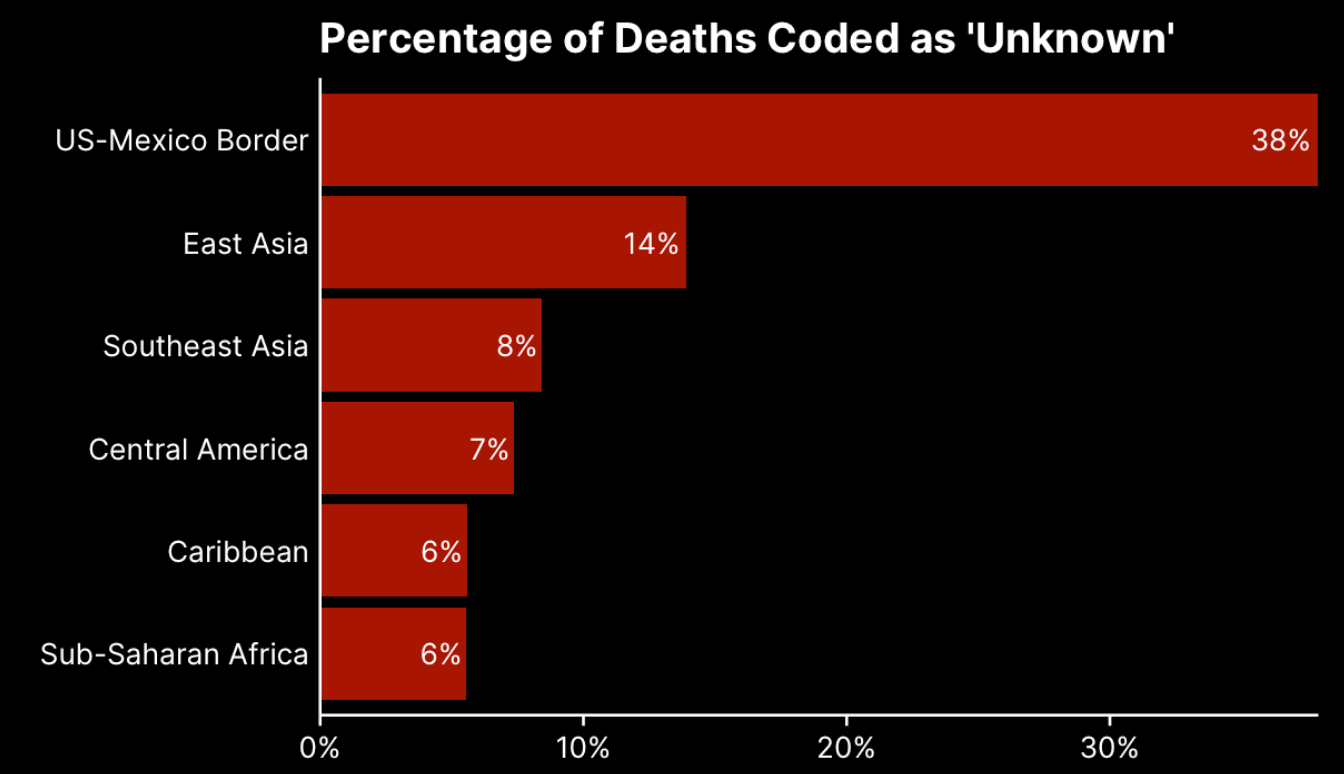
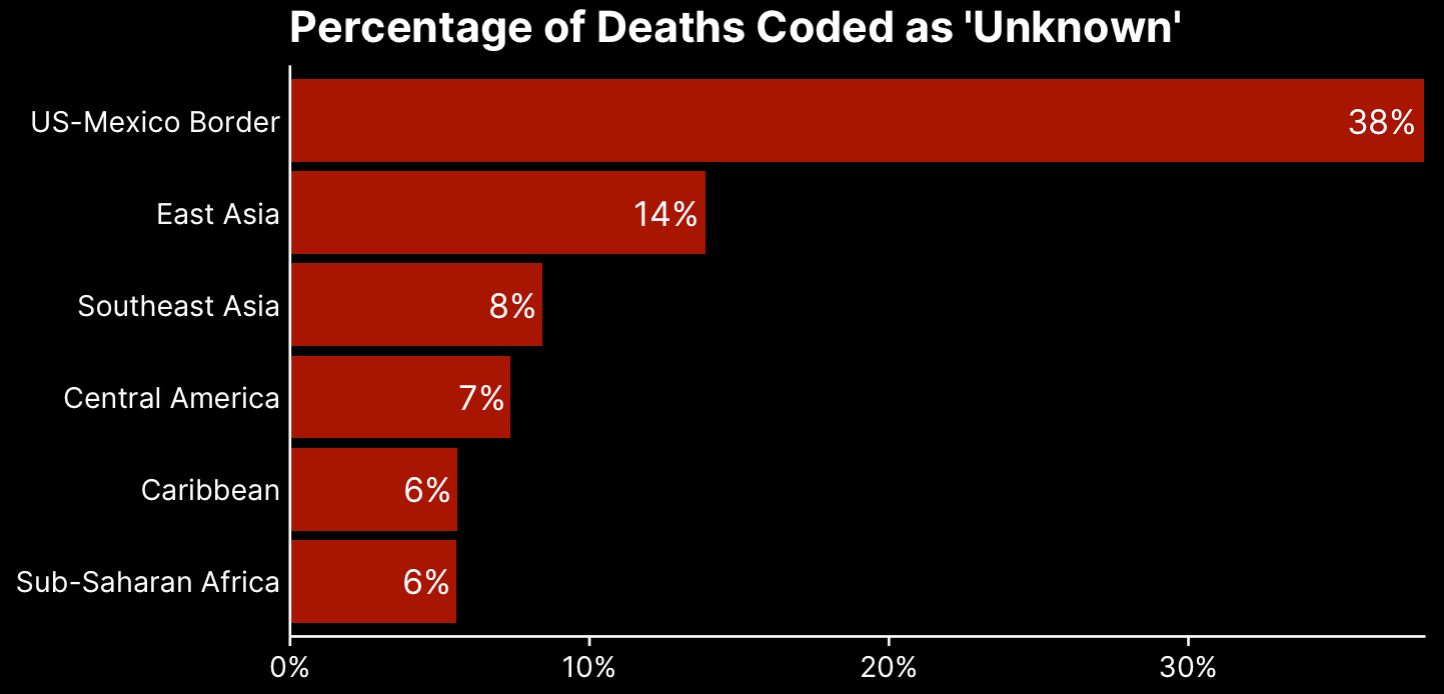
meditteranean reorg

Changed region(s): [[0.0, 0.0, 1.0, 0.9986]]

diff --git a/config.js b/config.js
@@ -198,7 +198,7 @@ var config = {
             id: 'mediterranean',
             title: 'Some paths remain more dangerous than others',
             // image: './path/to/image/source.png',
-            description: 'After five years of this crisis and tepid responses from national governments, some paths remain more dangerous than others. The most dangerous place for migrants is the Mediterranean Sea, where Alan Kurdi drowned.<br><br>Of the 34,688 people who have died or gone missing since 2014, over 55% of them were lost in the Mediterranean.',
+            description: 'After five years of this crisis and tepid responses from national governments, some paths remain more dangerous than others. Although it has become slightly safer in recent years, the most dangerous place for migrants is the Mediterranean Sea, where Alan Kurdi drowned.<br><br><img src="./images/some-paths-alt.jpg" alt="Stacked bar chart depicting changes over time by region" align="middle"><br><br>Of the 34,688 people who have died or gone missing since 2014, over 55% of them were lost in the Mediterranean.',
             location: {
                 center: [14.350,30.65],
                 zoom: 3,
@@ -601,7 +601,7 @@ var config = {
             id: 'us-mexico-brooks-county-fraction',
             // title: 'Brooks County',
             // image: './path/to/image/source.png',
-            description: "If these dead or missing migrants were residents of Brooks County, they would make up 8.9% of its population.",
+            description: "<strong>If these dead or missing migrants were residents of Brooks County, they would make up 8.9% of its population.</strong>",
             location: {
                 center: [-99.136, 26.750],
                 zoom: 6,
@@ -683,8 +683,8 @@ var config = {
         },
         {
             id: 'known-and-unknown-macro-view',
-            image: './images/known-and-unknown.jpg',
-            description: "The US-Mexico border is an outlier in this regard. While the international average for unknown causes of deaths is 6.8%, over 5 times that amount (38%) of US-Mexico migrant deaths have no known cause.",
+            // image: './images/known-and-unknown.jpg',
+            description: "The US-Mexico border is an outlier in this regard. While the international average for unknown causes of deaths is 6.8%, over 5 times that amount (38%) of US-Mexico migrant deaths have no known cause.<br><br><img src = './images/known-and-unknown.jpg' alt = 'Unknown deaths by region (Mexico is highest), align = 'center'>",
             location: {
                 center: [-91.374,10],
                 zoom: 1.7,
